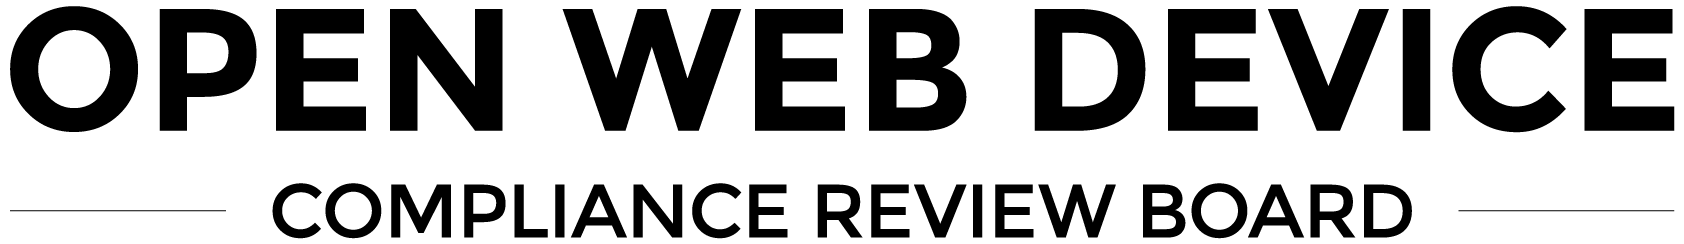
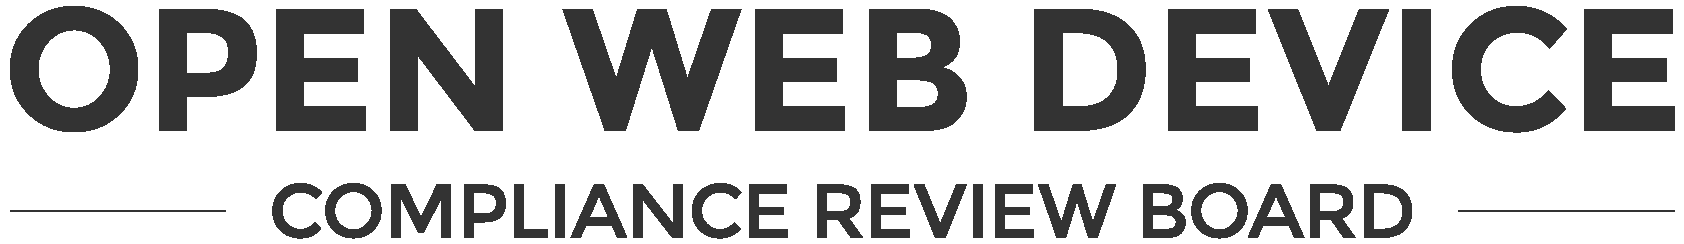
refining change of direction

diff --git a/build/static/css/sandstone/sandstone.css b/build/static/css/sandstone/sandstone.css
@@ -138,30 +138,30 @@ a:active {
 }
 
 .crb #outer-wrapper {
-    background-color: #EEEEEE;
+    background-color: #FFFFCC;
     background-image: -webkit-gradient(
         linear,
         left top,
         left bottom,
-        color-stop(0, #A5C5DE),
-        color-stop(1, #EEEEEE)
+        color-stop(0, #CCFF99),
+        color-stop(1, #FFFFCC)
     );
-    background-image: -o-linear-gradient(bottom, #A5C5DE 0%, #EEEEEE 100%);
-    background-image: -moz-linear-gradient(bottom, #A5C5DE 0%, #EEEEEE 100%);
-    background-image: -webkit-linear-gradient(bottom, #A5C5DE 0%, #EEEEEE 100%);
-    background-image: -ms-linear-gradient(bottom, #A5C5DE 0%, #EEEEEE 100%);
-    background-image: linear-gradient(to bottom, #A5C5DE 0%, #EEEEEE 100%);
+    background-image: -o-linear-gradient(bottom, #CCFF99 0%, #FFFFCC 100%);
+    background-image: -moz-linear-gradient(bottom, #CCFF99 0%, #FFFFCC 100%);
+    background-image: -webkit-linear-gradient(bottom, #CCFF99 0%, #FFFFCC 100%);
+    background-image: -ms-linear-gradient(bottom, #CCFF99 0%, #FFFFCC 100%);
+    background-image: linear-gradient(to bottom, #CCFF99 0%, #FFFFCC 100%);
     background-size: 100% 400px;
     background-repeat:no-repeat;
 }
 
 .crb a {
-    color: #395F7E;
+    color: #3A8265;
 }
 
 .crb a:hover,
 .crb a:active {
-    color: #3A8265;
+    color: #666633;
 }
 
 .space {
@@ -206,7 +206,7 @@ h1, h2, h3, h4, h5, h6, .huge, .large {
     display: block;
     margin: 0 0 12px 0;
     text-shadow: 0 1px 0 rgba(255,255,255,0.75);
-    color: #484848;
+    color: #333333;
 }
 
 .huge,
@@ -620,7 +620,7 @@ nav.menu-bar span:first-child a {
 
 .sidebar nav li {
     list-style-type: none;
-    border-bottom: 1px dotted #8A9691;
+    border-bottom: 1px dotted #999999;
     margin: 0;
     padding-bottom: 0px;
 }
@@ -632,7 +632,7 @@ nav.menu-bar span:first-child a {
 }
 
 .sidebar nav li a#active {
-    color: #3A8265;
+    color: #666633;
 }
 
 .sidebar nav li b {
@@ -649,6 +649,7 @@ nav.menu-bar span:first-child a {
     background: #fff;
     width: 100%;
     margin: 1em 0 0;
+    border-top: 1px solid #666600;
 }
 
 #colophon .row {
@@ -676,7 +677,8 @@ nav.menu-bar span:first-child a {
 }
 
 #colophon .footer-license {
-    width: 220px;
+    width: 100%;
+    text-align: center;
 }
 
 #colophon  .footer-nav {
@@ -743,7 +745,6 @@ nav.menu-bar span:first-child a {
 
     .sidebar {
         width: 160px; /* 3 column span */
-        margin-left: 70px; /* 1 column offset */
     }
 
     #colophon .row {
@@ -755,7 +756,8 @@ nav.menu-bar span:first-child a {
     }
 
     #colophon .footer-license {
-        width: 160px;
+        text-align: center;
+        width: 100%;
     }
 
     #colophon .footer-nav {

diff --git a/static/css/sandstone/sandstone.css b/static/css/sandstone/sandstone.css
@@ -138,30 +138,30 @@ a:active {
 }
 
 .crb #outer-wrapper {
-    background-color: #EEEEEE;
+    background-color: #FFFFCC;
     background-image: -webkit-gradient(
         linear,
         left top,
         left bottom,
-        color-stop(0, #A5C5DE),
-        color-stop(1, #EEEEEE)
+        color-stop(0, #CCFF99),
+        color-stop(1, #FFFFCC)
     );
-    background-image: -o-linear-gradient(bottom, #A5C5DE 0%, #EEEEEE 100%);
-    background-image: -moz-linear-gradient(bottom, #A5C5DE 0%, #EEEEEE 100%);
-    background-image: -webkit-linear-gradient(bottom, #A5C5DE 0%, #EEEEEE 100%);
-    background-image: -ms-linear-gradient(bottom, #A5C5DE 0%, #EEEEEE 100%);
-    background-image: linear-gradient(to bottom, #A5C5DE 0%, #EEEEEE 100%);
+    background-image: -o-linear-gradient(bottom, #CCFF99 0%, #FFFFCC 100%);
+    background-image: -moz-linear-gradient(bottom, #CCFF99 0%, #FFFFCC 100%);
+    background-image: -webkit-linear-gradient(bottom, #CCFF99 0%, #FFFFCC 100%);
+    background-image: -ms-linear-gradient(bottom, #CCFF99 0%, #FFFFCC 100%);
+    background-image: linear-gradient(to bottom, #CCFF99 0%, #FFFFCC 100%);
     background-size: 100% 400px;
     background-repeat:no-repeat;
 }
 
 .crb a {
-    color: #395F7E;
+    color: #3A8265;
 }
 
 .crb a:hover,
 .crb a:active {
-    color: #3A8265;
+    color: #666633;
 }
 
 .space {
@@ -206,7 +206,7 @@ h1, h2, h3, h4, h5, h6, .huge, .large {
     display: block;
     margin: 0 0 12px 0;
     text-shadow: 0 1px 0 rgba(255,255,255,0.75);
-    color: #484848;
+    color: #333333;
 }
 
 .huge,
@@ -620,7 +620,7 @@ nav.menu-bar span:first-child a {
 
 .sidebar nav li {
     list-style-type: none;
-    border-bottom: 1px dotted #8A9691;
+    border-bottom: 1px dotted #999999;
     margin: 0;
     padding-bottom: 0px;
 }
@@ -632,7 +632,7 @@ nav.menu-bar span:first-child a {
 }
 
 .sidebar nav li a#active {
-    color: #3A8265;
+    color: #666633;
 }
 
 .sidebar nav li b {
@@ -649,6 +649,7 @@ nav.menu-bar span:first-child a {
     background: #fff;
     width: 100%;
     margin: 1em 0 0;
+    border-top: 1px solid #666600;
 }
 
 #colophon .row {
@@ -676,7 +677,8 @@ nav.menu-bar span:first-child a {
 }
 
 #colophon .footer-license {
-    width: 220px;
+    width: 100%;
+    text-align: center;
 }
 
 #colophon  .footer-nav {
@@ -743,7 +745,6 @@ nav.menu-bar span:first-child a {
 
     .sidebar {
         width: 160px; /* 3 column span */
-        margin-left: 70px; /* 1 column offset */
     }
 
     #colophon .row {
@@ -755,7 +756,8 @@ nav.menu-bar span:first-child a {
     }
 
     #colophon .footer-license {
-        width: 160px;
+        text-align: center;
+        width: 100%;
     }
 
     #colophon .footer-nav {

diff --git a/build/certified-products/index.html b/build/certified-products/index.html
@@ -60,7 +60,8 @@
 
           
     <article class="main-column">
-        <h3>TBD</h3>
+        <h3>Certified Products</h3>
+        <p>TBD</p>
     </article>
 
 
@@ -70,7 +71,7 @@
 
       <footer id="colophon">
         <div class="row">
-          <div class="footer-license">Open Web Device CRB 2013</div>
+          <div class="footer-license">Open Web Device CRB &copy; 2013</div>
         </div>
       </footer>
 

diff --git a/build/members/index.html b/build/members/index.html
@@ -119,7 +119,7 @@
 
       <footer id="colophon">
         <div class="row">
-          <div class="footer-license">Open Web Device CRB 2013</div>
+          <div class="footer-license">Open Web Device CRB &copy; 2013</div>
         </div>
       </footer>
 

diff --git a/build/why_crb/index.html b/build/why_crb/index.html
@@ -103,7 +103,7 @@
 
       <footer id="colophon">
         <div class="row">
-          <div class="footer-license">Open Web Device CRB 2013</div>
+          <div class="footer-license">Open Web Device CRB &copy; 2013</div>
         </div>
       </footer>
 

diff --git a/build/about/index.html b/build/about/index.html
@@ -87,7 +87,7 @@
 
       <footer id="colophon">
         <div class="row">
-          <div class="footer-license">Open Web Device CRB 2013</div>
+          <div class="footer-license">Open Web Device CRB &copy; 2013</div>
         </div>
       </footer>
 

diff --git a/build/index.html b/build/index.html
@@ -84,7 +84,7 @@
 
       <footer id="colophon">
         <div class="row">
-          <div class="footer-license">Open Web Device CRB 2013</div>
+          <div class="footer-license">Open Web Device CRB &copy; 2013</div>
         </div>
       </footer>
 

diff --git a/templates/base.html b/templates/base.html
@@ -51,7 +51,7 @@
 
       <footer id="colophon">
         <div class="row">
-          <div class="footer-license">Open Web Device CRB 2013</div>
+          <div class="footer-license">Open Web Device CRB &copy; 2013</div>
         </div>
       </footer>
 

diff --git a/templates/certified_products.html b/templates/certified_products.html
@@ -4,6 +4,7 @@
 
 {% block content %}
     <article class="main-column">
-        <h3>TBD</h3>
+        <h3>Certified Products</h3>
+        <p>TBD</p>
     </article>
 {% endblock content %}
